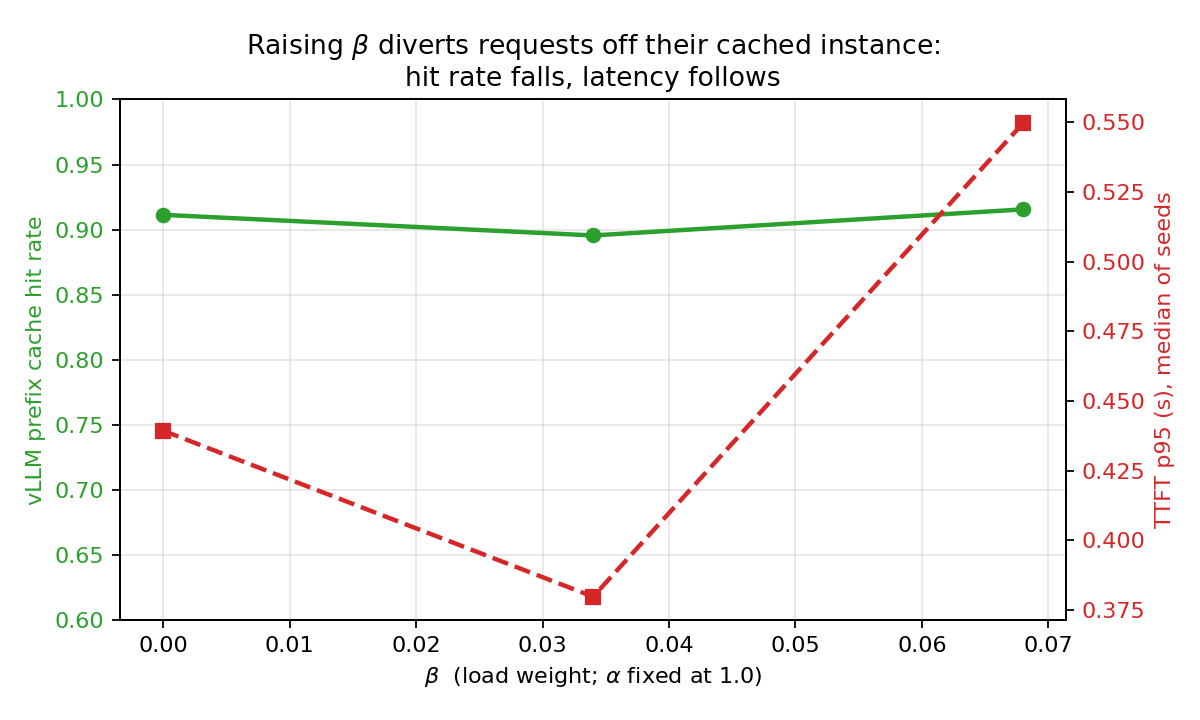
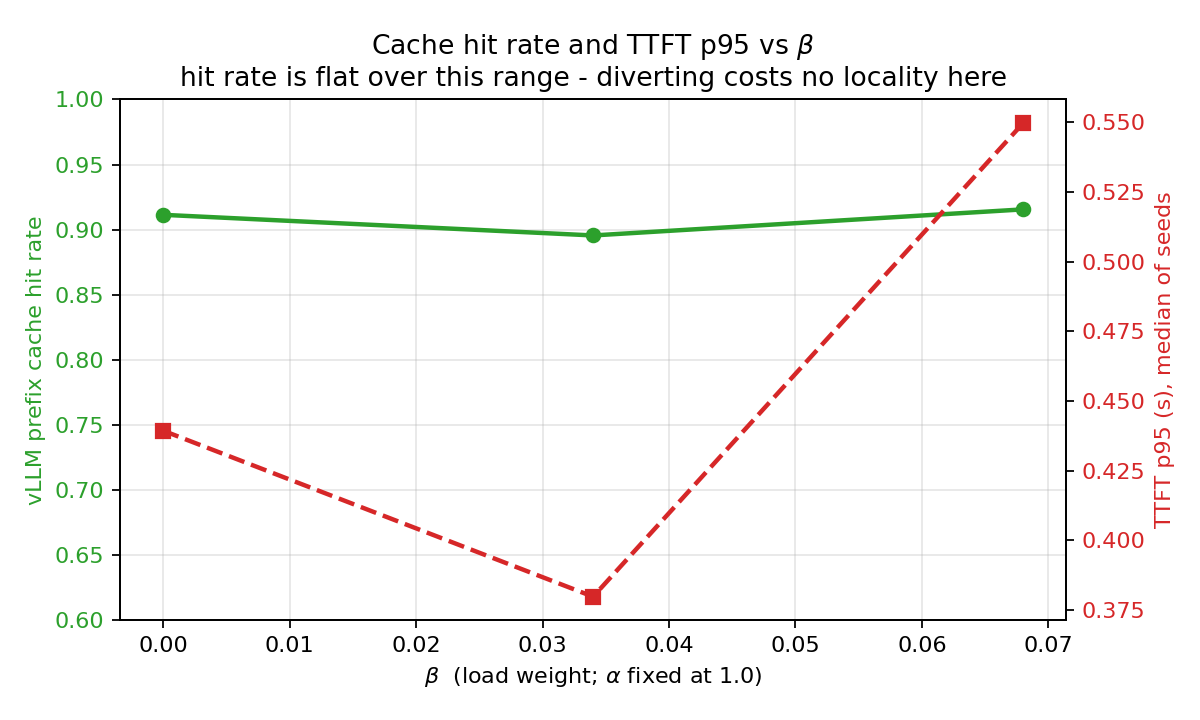
fix(bench): two figures asserted more than their data supported (#7)
fig7's title read "hit rate falls, latency follows". That was read off the
10.5 req/s sweep, where beta ran to 1.0 and hit rate genuinely collapsed
0.918 -> 0.787 -> 0.735. It is FALSE on the rate-16 grid: across beta 0 ->
0.034 -> 0.068 the vLLM prefix-cache hit rate is flat (0.911, 0.895, 0.916),
and fig3 agrees - every cache-aware arm sits at ~0.96 engine-local lookup hit
rate regardless of beta. Nothing is diverting off its cached instance in this
range.

That matters beyond the caption: it removes the explanation for TTFT p95
rising at beta=0.068. The rise is now recorded as UNEXPLAINED rather than
attributed to cache misses the data says did not happen. Most likely it is
n=3 noise - TTFT p95 is dominated by bursty engine stalls, 1-3 per seed, a
Poisson count with no routing content - but that is a hypothesis, not a
finding. A figure must not claim a mechanism its own data refutes.

_panel_grid captioned every bar with max(n) across cells, so on a mixed-n
figure the 3-seed descriptive cells (beta=0.068, roundrobin) were labelled
"median of 20 seeds" - overstating precisely the bars a reader should trust
least. Each bar now carries its own n and the axis says "median across seeds".

Figures regenerated. 116 tests pass.

Changed region(s): [[0.1542, 0.0306, 0.8325, 0.1222]]

diff --git a/benchmarks/plot_results.py b/benchmarks/plot_results.py
@@ -180,11 +180,19 @@ def counter_delta(run_dir: str, metric: str) -> float:
 
 
 def fig_beta_tradeoff(cells: List[Dict], out: str) -> None:
-    """The causal figure: what beta actually buys and what it costs.
+    """What beta costs in cache locality, and whether latency follows.
 
-    Left axis = vLLM prefix-cache hit rate (the thing diverting destroys),
-    right axis = TTFT p95 (the consequence). This is the mechanism behind the
-    beta blow-up, not an inference from latency alone.
+    Left axis = vLLM prefix-cache hit rate (the thing diverting is supposed to
+    destroy), right axis = TTFT p95 (the putative consequence).
+
+    The title used to assert "hit rate falls, latency follows". That was read off
+    the 10.5 req/s sweep, where beta ran to 1.0 and hit rate genuinely collapsed
+    0.918 -> 0.787 -> 0.735. It is FALSE on the rate-16 grid: across beta 0 ->
+    0.034 -> 0.068 hit rate is flat (0.911, 0.895, 0.916), and fig3 agrees -
+    every cache-aware arm sits at ~0.96 engine-local lookup hit rate. So any TTFT
+    movement in this beta range is NOT bought with cache misses, and the figure
+    must not claim a mechanism its own data refutes. Title now states what is
+    plotted and leaves the reading to the caption.
     """
     la = sorted([c for c in cells if c["arm"] == "loadaware"], key=lambda c: c["beta"])
     la = [c for c in la
@@ -207,8 +215,8 @@ def fig_beta_tradeoff(cells: List[Dict], out: str) -> None:
     ax2.plot(betas, p95, "s--", color="tab:red", lw=2, label="TTFT p95")
     ax2.set_ylabel("TTFT p95 (s), median of seeds", color="tab:red")
     ax2.tick_params(axis="y", labelcolor="tab:red")
-    ax.set_title(r"Raising $\beta$ diverts requests off their cached instance:"
-                 "\nhit rate falls, latency follows")
+    ax.set_title(r"Cache hit rate and TTFT p95 vs $\beta$"
+                 "\nhit rate is flat over this range - diverting costs no locality here")
     ax.grid(alpha=0.3)
     fig.tight_layout()
     fig.savefig(out, dpi=160)
@@ -281,21 +289,27 @@ def fig_paired(cells: List[Dict], out: str, cand=None, base="kvaware") -> None:
 def _panel_grid(cells: List[Dict], out: str, metrics, scale: float,
                 unit: str, suptitle: str) -> None:
     """Median-across-seeds bar panels, one per percentile. Shared by the TTFT,
-    ITL and throughput figures so all three read identically."""
+    ITL and throughput figures so all three read identically.
+
+    Each bar is labelled with its OWN seed count. The axis caption used to read
+    "median of {max n} seeds", which on a mixed-n figure claimed the 3-seed
+    descriptive cells (beta=0.068, roundrobin) carried the 20 seeds of the
+    inferential ones - overstating exactly the bars a reader should trust least.
+    """
     ordered = sorted(cells, key=lambda c: (c["arm"] != "loadaware", c["beta"] or 0, c["cell"]))
     fig, axes = plt.subplots(1, len(metrics), figsize=(4 * len(metrics), 4), sharey=True)
     axes = axes if len(metrics) > 1 else [axes]
     for ax, (key, label) in zip(axes, metrics):
         vals = [[s[key] for s in c["seeds"] if s[key] == s[key]] for c in ordered]
         meds = [percentile(v, 50) * scale if v else float("nan") for v in vals]
-        ax.barh([c["cell"] for c in ordered], meds, color="tab:blue", alpha=0.8)
+        labels = [f"{c['cell']}\n(n={len(v)})" for c, v in zip(ordered, vals)]
+        ax.barh(labels, meds, color="tab:blue", alpha=0.8)
         # error bar = seed spread, so a reader sees whether a gap is meaningful
         for i, v in enumerate(vals):
             if len(v) > 1:
                 lo, hi = percentile(v, 5) * scale, percentile(v, 95) * scale
                 ax.plot([lo, hi], [i, i], color="k", lw=1)
-        n = max((len(v) for v in vals), default=0)
-        ax.set_xlabel(f"{label} ({unit}), median of {n} seeds")
+        ax.set_xlabel(f"{label} ({unit}), median across seeds")
         ax.grid(alpha=0.3, axis="x")
     axes[0].invert_yaxis()
     fig.suptitle(suptitle)
